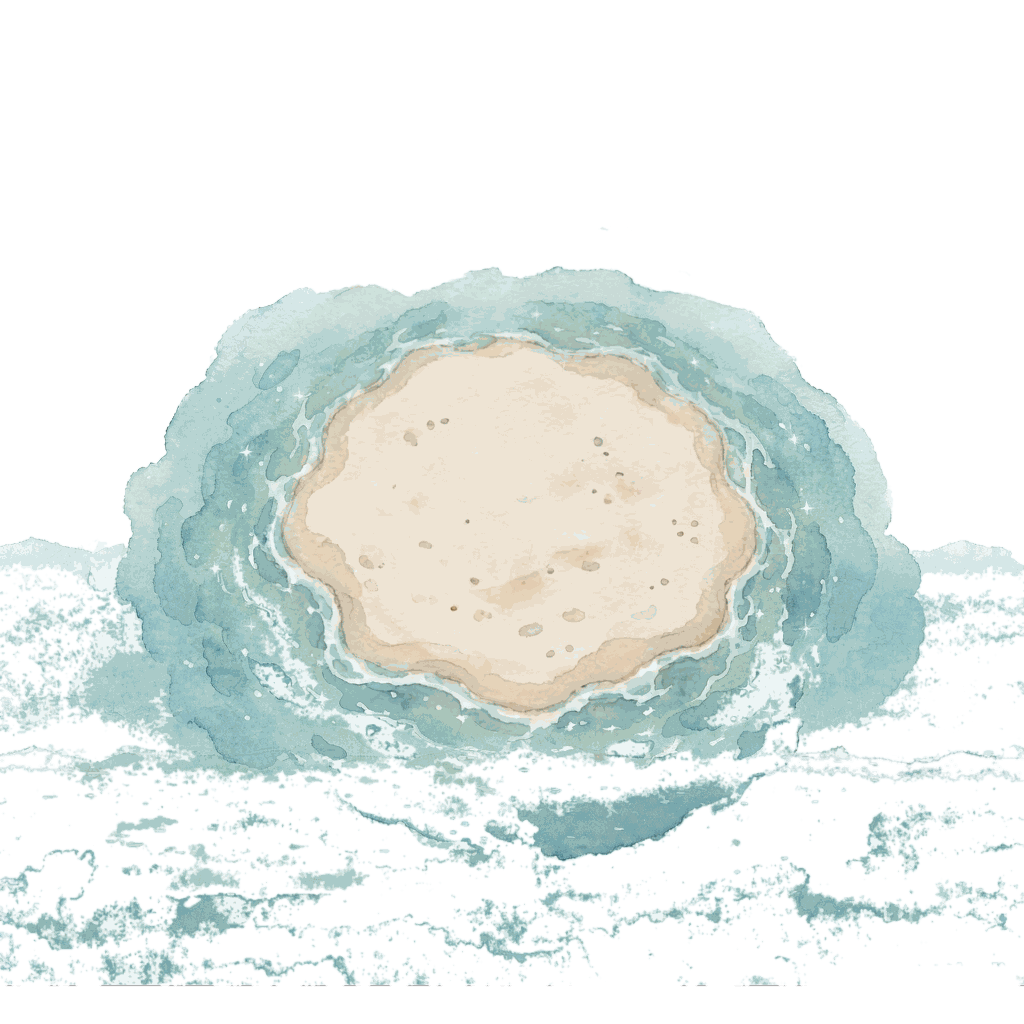
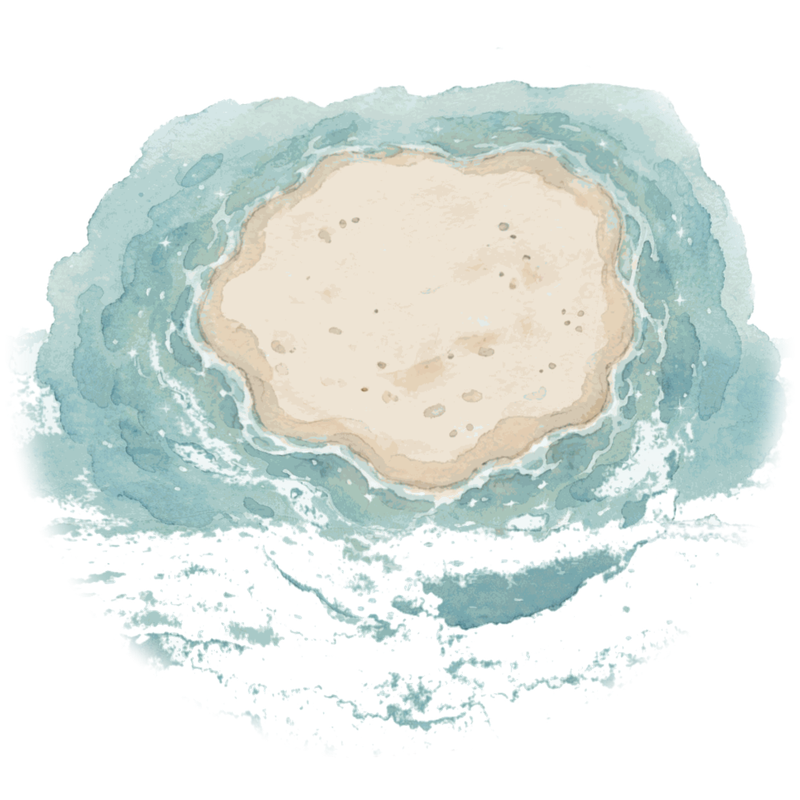
feat(art): 岛屿底图重制——island_01/02 消除方形白边（真机截图驱动）
RCA：coast_base_v3 / reef_rocks_v1 是「海岸/礁石 oblique 组件」被借作岛底图，
水彩底色画到画布边（coast alpha bbox x=0..1024 触边、四角覆盖 22%~40%），
主体中心下偏 ~90px，内容宽高比 1.55/1.29；catalog content 取全宽 → Plane 以 2r
铺满后整块白水彩就是一个 2r 见方的硬边方框。

修法（保笔触，不重绘）：新增 tests/prepare_island_base.py 极坐标归一——淡白
水彩先压 34%，逐角度追踪岛体轮廓并以中位数半径合成近圆剪影，各方向按比例
重采样（宽边/底部滩涂被压进圆内），边缘在画幅内渐隐至 0，四角必然透明，
裁到内容外接正方形 800²。

接入：catalog pixel 800/800、content 704/704（=800×0.88 岛体直径）→ 岛岸线
对齐世界半径 r（旧版可见岛体仅 ~1.17r 直径，碰撞圈 2r 明显大于岛体）；
manifest 尺寸/content_bounds/transparent_ratio/sha 刷新；SeaViewArt 映射不变，
一行可回切。旧图备份 _art_variants_keep/*_legacy_20261020.png。

体积：两张 800² 无损重打包 624KB + 727KB（净增 ~1.0MB）；未走 256 色量化，
FASTOCTREE 会把多级 alpha 压成硬边，毁掉本次 fade 渐隐。
回归：B5 46/46 绿（含底图契约）；全量 70 套/616 检查，仅并行 HUD WIP 的 2 红。

diff --git a/tests/prepare_island_base.py b/tests/prepare_island_base.py
@@ -1,0 +1,192 @@
+"""Rebuild an island base plate so a watercolour wash stops reading as a box.
+
+Why this exists
+---------------
+island_01 renders `coast_base_v3` through ImageArt.Plane as a 2r plate. The
+authored artwork is painted edge to edge (alpha bbox x = 0..1024) and its body
+sits below the canvas centre, so on the sea it shows up as a hard-edged white
+rectangle hanging under the island (2026-10-20 real-device report).
+
+What it does
+------------
+Keeps every brushstroke and re-samples the painting in polar coordinates: each
+direction is stretched onto one shared near-circular silhouette, so over-long
+directions (the wide flanks, the shoal spilling to the bottom edge) are
+compressed instead of leaking out as a slab. Pale foam is thinned before the
+resample, the lower rim skirt is bleached, the plate fades to zero alpha inside
+the canvas (transparent corners by construction) and is cropped tight to a
+square so the plane never shows a transparent margin as a shape.
+
+Output contract
+---------------
+Square RGBA PNG, content = whole canvas, alpha reaches 0 before the canvas edge.
+Set the catalog entry to pixelWidth/contentWidth = 800 / 704 after a rebuild
+(704 = 2 * 400 * BODY_RATIO, the painted body diameter), which makes the island
+body line up with the world radius r instead of overshooting it with foam.
+
+Usage
+-----
+    python tests/prepare_island_base.py <src.png> <dst.png> [--report r.json]
+
+Fold the shipped file:
+    python tests/prepare_island_base.py \\
+        assets/image/OceanComponents/coast_base_v3.png \\
+        assets/image/OceanComponents/coast_base_v3.png
+"""
+from __future__ import annotations
+
+import argparse
+import json
+from pathlib import Path
+
+import numpy as np
+from PIL import Image, ImageFilter
+
+CANVAS = 1024            # working canvas, downsampled to OUT_SIZE at the end
+OUT_SIZE = 800           # shipped size (power-of-two friendly, <= source)
+BODY_RATIO = 0.88        # painted body radius / half canvas
+FADE = 0.12              # outer alpha fade band, share of the body radius
+ANGLES = 2048            # angular resolution of the outline trace
+ALPHA_FLOOR = 0.82       # alpha treated as "painted body" when tracing the outline
+PALE_MIN_RGB = 0.88      # pale wash kept but thinned (this is what paints the box)
+PALE_KEEP = 0.34
+LOWER_SKIRT_KILL = 0.55  # extra bleaching of the pale skirt along the lower rim
+
+
+def smoothstep(edge0: float, edge1: float, x: np.ndarray) -> np.ndarray:
+    e0 = np.asarray(edge0, dtype=np.float32)
+    e1 = np.asarray(edge1, dtype=np.float32)
+    denom = np.where(np.abs(e1 - e0) < 1e-6, 1e-6, e1 - e0)
+    t = np.clip((np.asarray(x, dtype=np.float32) - e0) / denom, 0.0, 1.0)
+    return t * t * (3.0 - 2.0 * t)
+
+
+def bilinear(img: np.ndarray, xs: np.ndarray, ys: np.ndarray) -> np.ndarray:
+    h, w = img.shape[:2]
+    xs = np.clip(xs, 0, w - 1.001)
+    ys = np.clip(ys, 0, h - 1.001)
+    x0 = np.floor(xs).astype(np.int32)
+    y0 = np.floor(ys).astype(np.int32)
+    x1, y1 = x0 + 1, y0 + 1
+    fx = (xs - x0)[..., None]
+    fy = (ys - y0)[..., None]
+    top = img[y0, x0] * (1 - fx) + img[y0, x1] * fx
+    bot = img[y1, x0] * (1 - fx) + img[y1, x1] * fx
+    return top * (1 - fy) + bot * fy
+
+
+def trace_outline(src: np.ndarray) -> tuple[float, float, np.ndarray]:
+    """Locate the painted body centre and a near-circular target silhouette.
+
+    A least-squares ellipse over the traced radii keeps the slab shape (pale
+    foam and shoal dominate the extents), so the silhouette is anchored on the
+    median traced radius plus a small multi-lobe modulation instead.
+    """
+    alpha = src[:, :, 3]
+    mask = alpha > ALPHA_FLOOR
+    ys, xs = np.nonzero(mask)
+    if len(xs) == 0:
+        raise SystemExit("no painted body found in source")
+    cx, cy = float(xs.mean()), float(ys.mean())
+
+    thetas = np.linspace(-np.pi, np.pi, ANGLES, endpoint=False)
+    steps = 900
+    radii = np.zeros(ANGLES, dtype=np.float64)
+    for i, t in enumerate(thetas):
+        rr = np.linspace(4.0, 620.0, steps)
+        px = cx + np.cos(t) * rr
+        py = cy + np.sin(t) * rr
+        inside = (px >= 0) & (px < alpha.shape[1] - 1) & (py >= 0) & (py < alpha.shape[0] - 1)
+        vals = np.zeros(steps)
+        vals[inside] = bilinear(alpha[:, :, None], px[inside], py[inside])[:, 0]
+        hit = np.nonzero(vals > ALPHA_FLOOR)[0]
+        radii[i] = rr[hit[-1]] if len(hit) else 0.0
+
+    live = radii[radii > 0]
+    if len(live) == 0:
+        raise SystemExit("empty outline")
+    med = float(np.median(live))
+    silhouette = med * (1.0
+                        + 0.045 * np.sin(3 * thetas + 0.8)
+                        + 0.025 * np.sin(5 * thetas + 2.3)
+                        + 0.015 * np.sin(7 * thetas + 4.1))
+    return cx, cy, silhouette
+
+
+def rebuild(src_path: Path, dst_path: Path) -> dict:
+    src = np.asarray(Image.open(src_path).convert("RGBA"), dtype=np.float32) / 255.0
+
+    pale = (src[:, :, :3].min(axis=2) > PALE_MIN_RGB) & (src[:, :, 3] < 0.96)
+    src[:, :, 3] = np.where(pale, src[:, :, 3] * PALE_KEEP, src[:, :, 3])
+
+    cx, cy, silhouette = trace_outline(src)
+
+    half = CANVAS / 2.0
+    body_r = half * BODY_RATIO
+    apron_r = body_r * (1.0 + FADE)
+
+    grid = np.arange(CANVAS, dtype=np.float32) - half
+    gx, gy = np.meshgrid(grid, grid)
+    rho = np.sqrt(gx * gx + gy * gy)
+    theta = np.arctan2(gy, gx)
+
+    idx = ((theta + np.pi) / (2 * np.pi) * ANGLES) % ANGLES
+    src_r = np.interp(idx, np.arange(ANGLES), silhouette)
+    scale = src_r / body_r
+    xs = cx + np.cos(theta) * rho * scale
+    ys = cy + np.sin(theta) * rho * scale
+    out = bilinear(src, xs, ys)
+
+    fade = smoothstep(apron_r, body_r, rho)
+    out[:, :, 3] *= fade
+
+    lower = np.clip(gy / (body_r * 0.75), 0.0, 1.0)
+    whiteish = out[:, :, :3].min(axis=2) > 0.88
+    out[:, :, 3] *= 1.0 - LOWER_SKIRT_KILL * lower * whiteish
+
+    img = Image.fromarray((np.clip(out, 0, 1) * 255).round().astype(np.uint8), "RGBA")
+    img = img.filter(ImageFilter.GaussianBlur(0.4))
+
+    bb = img.getchannel("A").getbbox()
+    pad = 3
+    bb = (max(0, bb[0] - pad), max(0, bb[1] - pad),
+          min(img.width, bb[2] + pad), min(img.height, bb[3] + pad))
+    img = img.crop(bb)
+    w, h = img.size
+    square = Image.new("RGBA", (max(w, h), max(w, h)), (0, 0, 0, 0))
+    square.alpha_composite(img, ((max(w, h) - w) // 2, (max(w, h) - h) // 2))
+    square = square.resize((OUT_SIZE, OUT_SIZE), Image.LANCZOS)
+    square.save(dst_path)
+
+    bb2 = square.getchannel("A").getbbox()
+    alpha_px = np.asarray(square.getchannel("A"))
+    return {
+        "dst": str(dst_path),
+        "size": list(square.size),
+        "content_bounds": list(bb2),
+        "content_size": [bb2[2] - bb2[0], bb2[3] - bb2[1]],
+        "transparent_ratio": round(float((alpha_px <= 8).mean()), 4),
+        "edge_touch": int((bb2[0] < 3) + (bb2[1] < 3)
+                          + (bb2[2] > OUT_SIZE - 3) + (bb2[3] > OUT_SIZE - 3)),
+        "catalog": {"pixelWidth": OUT_SIZE, "pixelHeight": OUT_SIZE,
+                    "contentWidth": round(OUT_SIZE * BODY_RATIO),
+                    "contentHeight": round(OUT_SIZE * BODY_RATIO)},
+    }
+
+
+def main() -> None:
+    parser = argparse.ArgumentParser(description=__doc__,
+                                     formatter_class=argparse.RawDescriptionHelpFormatter)
+    parser.add_argument("src", type=Path)
+    parser.add_argument("dst", type=Path)
+    parser.add_argument("--report", type=Path)
+    args = parser.parse_args()
+    report = rebuild(args.src, args.dst)
+    text = json.dumps(report, indent=2, ensure_ascii=False)
+    print(text)
+    if args.report:
+        args.report.write_text(text, encoding="utf-8")
+
+
+if __name__ == "__main__":
+    main()
